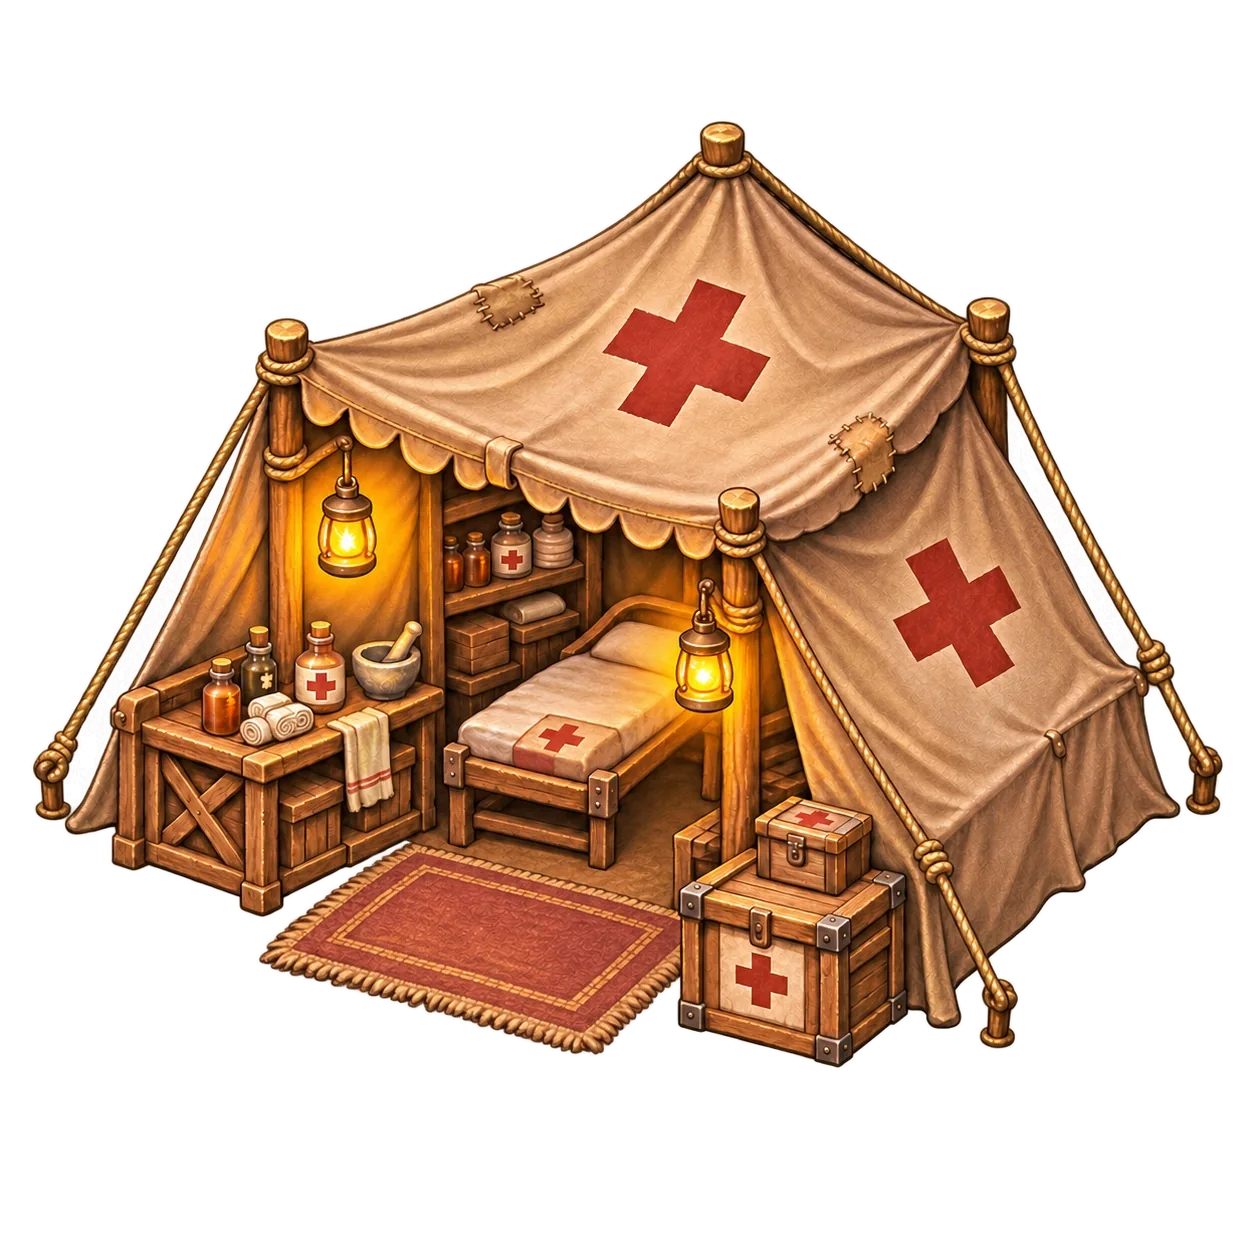
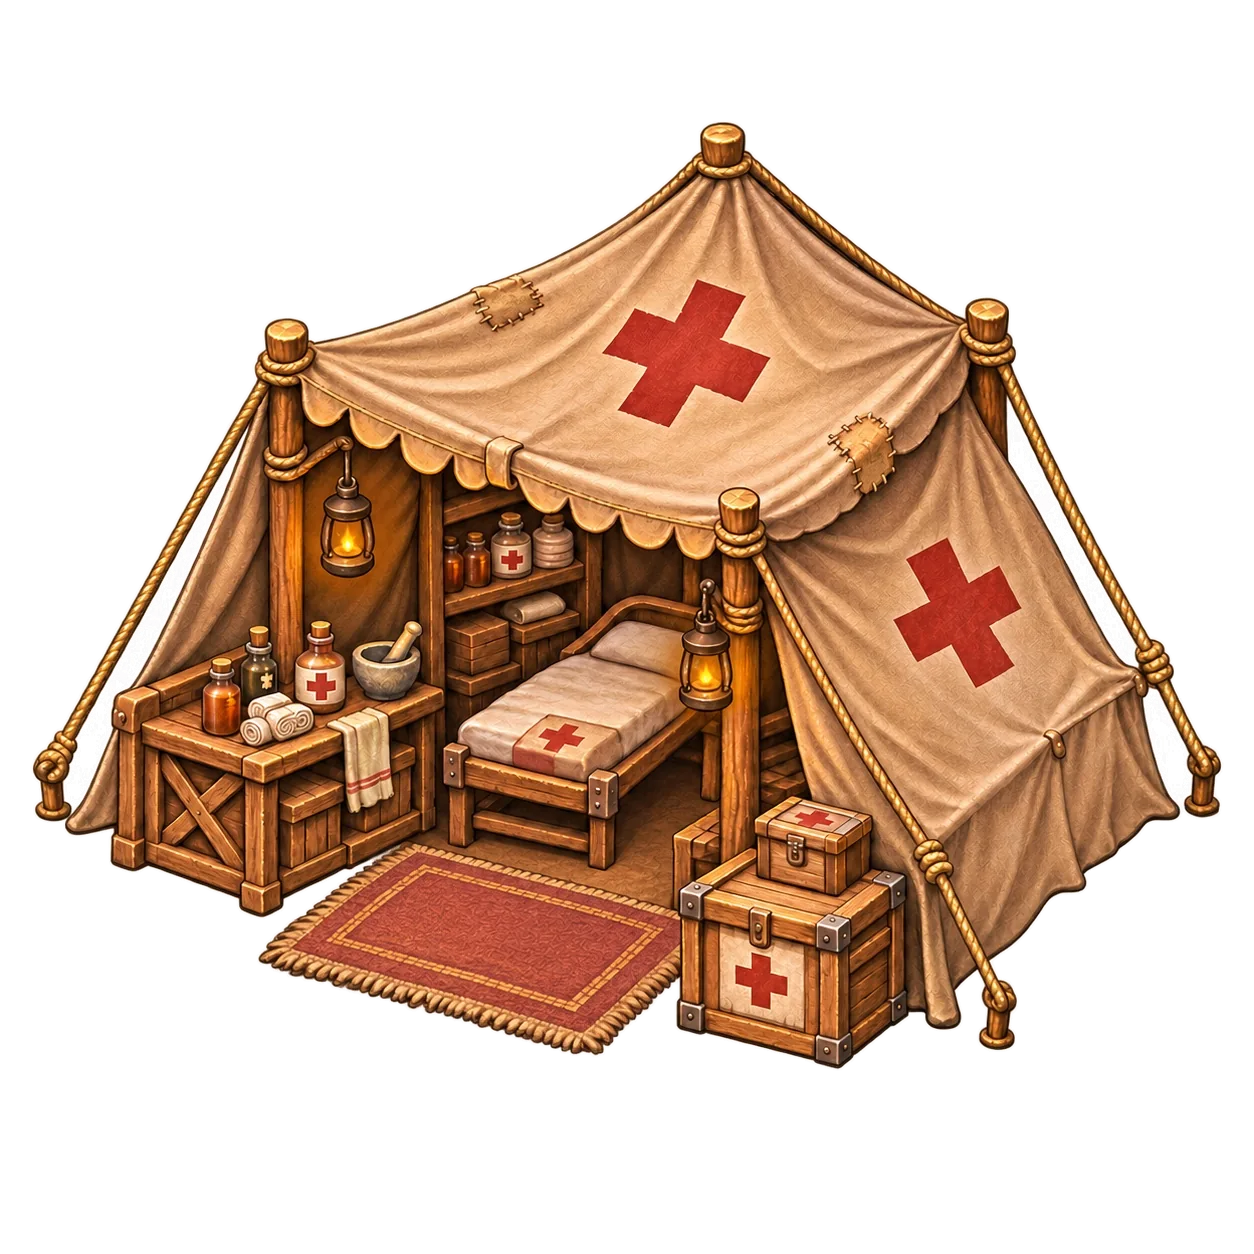
Soften Medic Centre lantern animation using one consistent repaired sprite

diff --git a/src/treatment-animation-art.ts b/src/treatment-animation-art.ts
@@ -1,11 +1,11 @@
 import type {ArtworkRecord} from './artwork-model';
-/** Five matching transparent frames, with light levels from low to high. */
+/** Five pixel-aligned frames from one repaired master; only the lantern glass varies subtly. */
 export const TREATMENT_ART_ROOT='/survival/camp-treatment-v2';
 export const TREATMENT_IDLE_FRAMES=Array.from({length:5},(_,i)=>`${TREATMENT_ART_ROOT}/idle-0${i}.webp`);
 export const TREATMENT_PULSE_FRAMES=[0,1,2,3,4,3,2,1].map(i=>TREATMENT_IDLE_FRAMES[i]);
 export const TREATMENT_BROKEN_IMAGE=`${TREATMENT_ART_ROOT}/broken.webp`;
-export const TREATMENT_ANIMATION_FPS=4;
-const TREATMENT_FRAME_BYTES=[199304,206862,183542,184962,209030];
+export const TREATMENT_ANIMATION_FPS=3;
+const TREATMENT_FRAME_BYTES=[1041448,1041610,1041626,1041108,1041294];
 
 /** Upgrade original treatment artwork, preserving later custom uploads and placement geometry. */
 export function resolveTreatmentArtwork(record:ArtworkRecord):ArtworkRecord{
